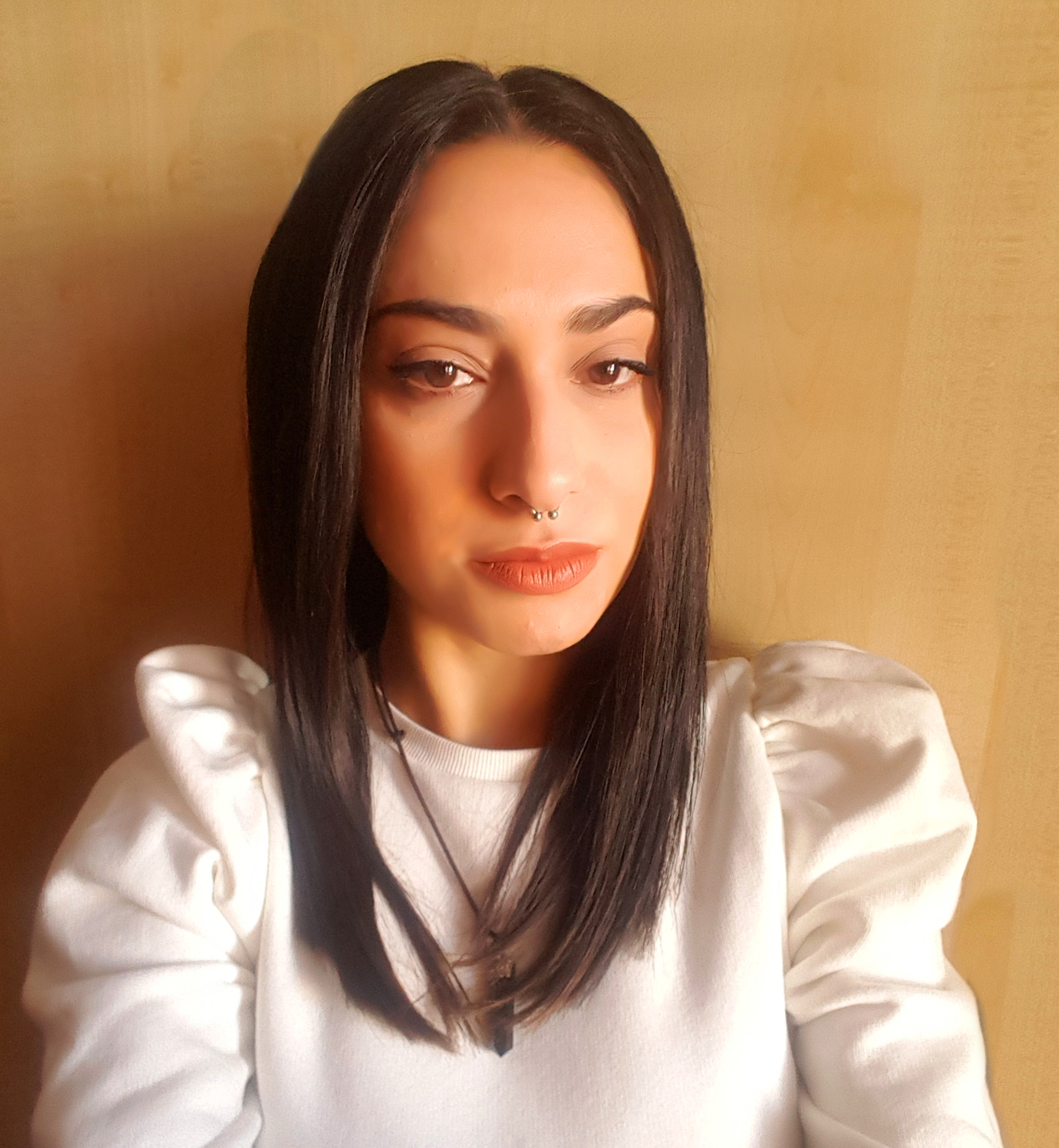
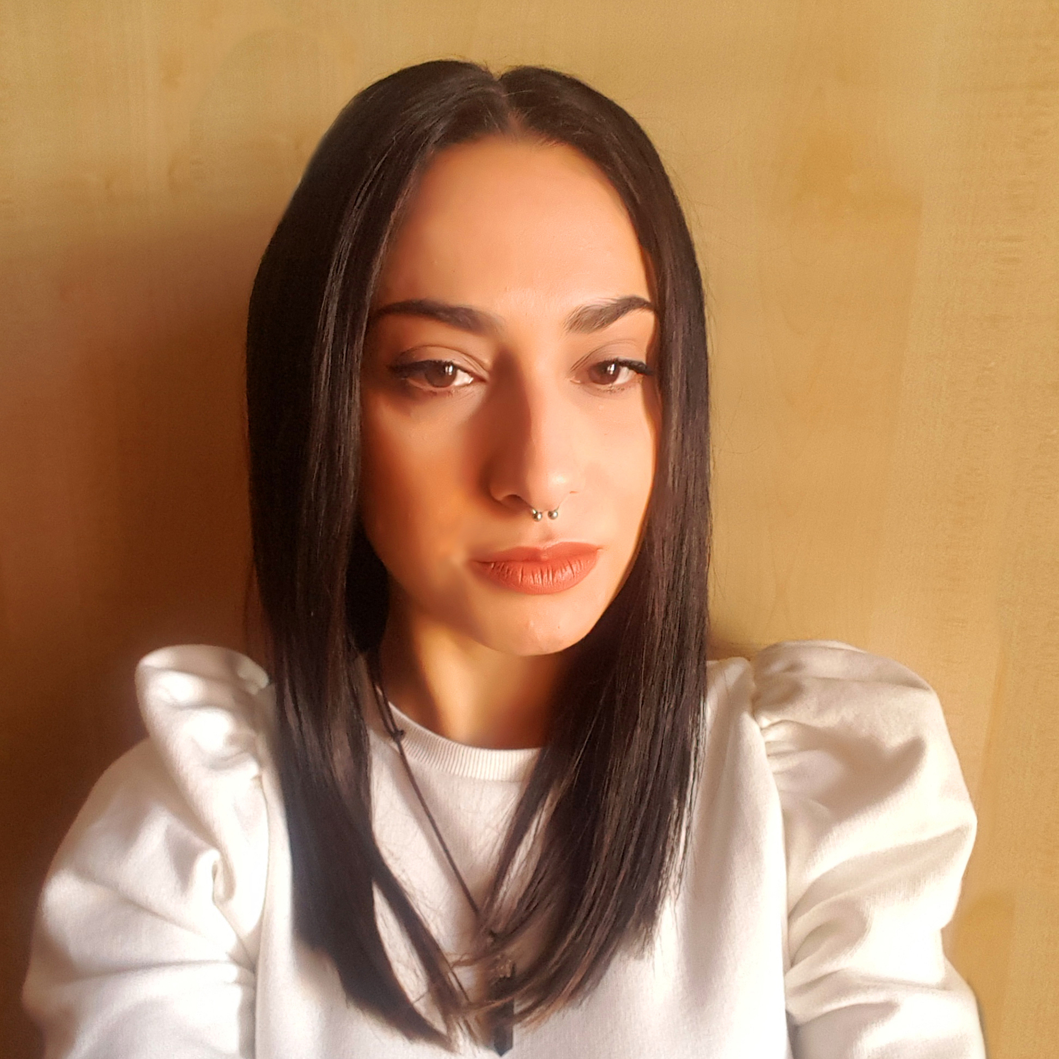
up

diff --git a/src/Components/Home/Home.js b/src/Components/Home/Home.js
@@ -10,9 +10,26 @@ function Home() {
       <NavBar />
       <Container>
         <Row>
-          <Col lg={6} xs={12}>
-            <Image src={photo} id="photo" />
+          <Col
+            lg={6}
+            xs={12}
+            className="d-flex justify-content-center align-items-center"
+          >
+            <Col
+              id="quadrato"
+              className="d-flex flex-column align-content-center"
+            >
+              <Image
+                src={photo}
+                id="photo"
+                className="align-self-center mt-4"
+              />
+              <h5 className="ms-5 mt-5">Contatti:</h5>
+              <h6 className="ms-5">• alice.ibba5@gmail.com</h6>
+              <h6 className="ms-5">• +39 346 2405424</h6>
+            </Col>
           </Col>
+
           <Col lg={5} xs={12}>
             <h1>Ciao, mi chiamo Alice Ibba.</h1>
             <h4>Cittadina del mondo, lettrice per caso,</h4>

diff --git a/src/Components/Home/styles.css b/src/Components/Home/styles.css
@@ -1,9 +1,20 @@
-#photo {
-    width: 400px;
+#quadrato {
+    width: 350px;
+    height: 450px;
     margin-top: 100px;
     box-shadow: 5px 5px 15px 5px #757575;
     margin-bottom: 100px;
-    border-radius: 20px;
+    background-color: rgb(247, 243, 240);
+    flex: none;
+}
+
+#photo {
+    width: 250px;
+    border-radius: 200px;
+}
+
+#rettangolo {
+    background-color: rgba(171,169,195);
 }
 
 h1 {    

diff --git a/src/Components/Footer/styles.css b/src/Components/Footer/styles.css
@@ -1,4 +1,4 @@
 #footer {
-    background: rgb(231,222,215);
-background: linear-gradient(90deg, rgba(231,222,215,1) 0%, rgba(194,166,201,1) 35%, rgba(171,169,195,1) 100%);
+    background: rgb(171,169,195);
+background: linear-gradient(90deg, rgba(171,169,195,1) 0%, rgba(194,166,201,1) 35%, rgba(231,222,215,1) 100%);
 }
